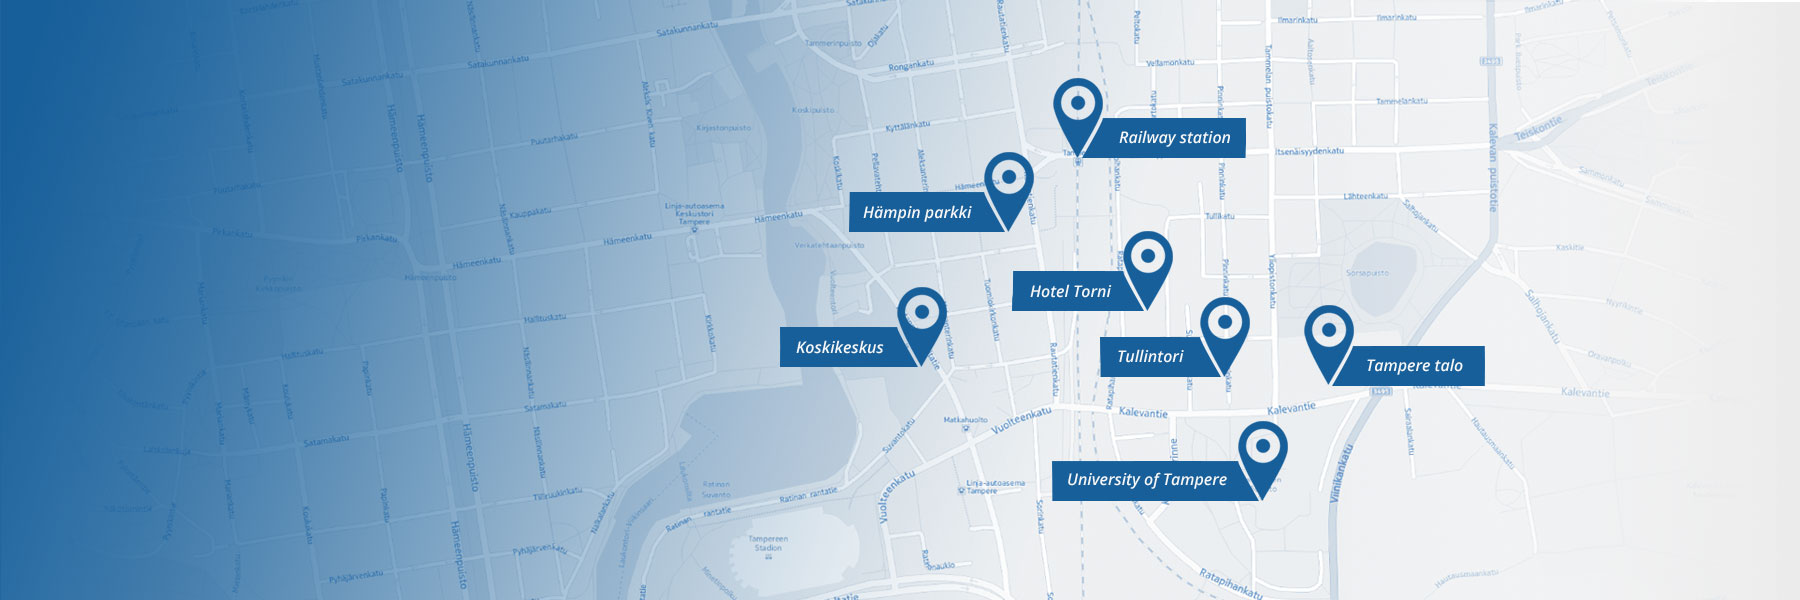
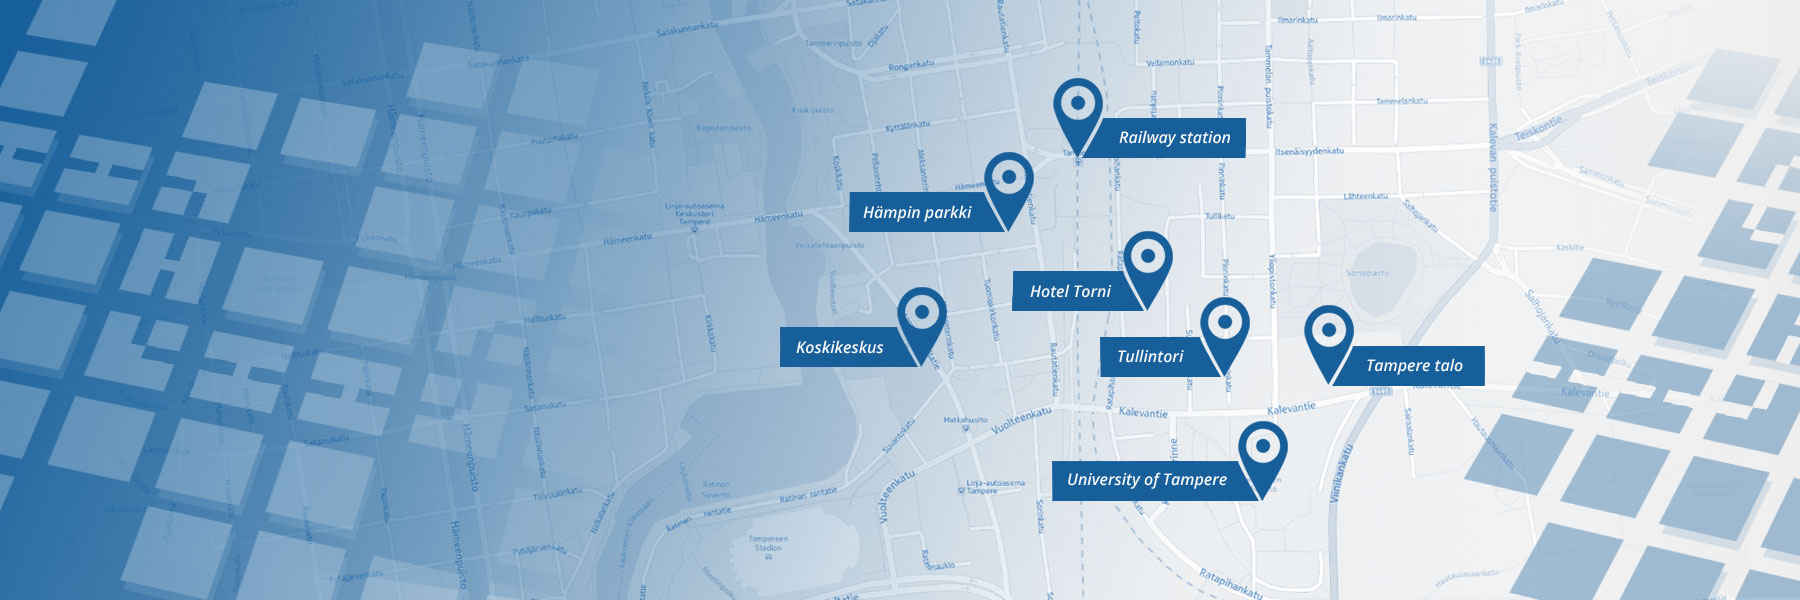
Change main photos add small to respo

diff --git a/wp-content/themes/citytrack/assets/css/style.min.css b/wp-content/themes/citytrack/assets/css/style.min.css
@@ -7590,6 +7590,9 @@ footer {
 *
 * Styles applied on partners page.
 */
+#partners .splash-block{
+    background-image: url(../img/main_photo3.jpg);
+}
 
 #partners .splash-block #img-map-white{
     top: -160px;
@@ -7711,8 +7714,10 @@ footer {
 */
 
 #users .splash-block{
+    background-image: url(../img/main_photo2.jpg);
     position: relative;
 }
+
 #users .splash-block #img-map-white{
     top: -160px;
     height: 500px;
@@ -7771,6 +7776,20 @@ footer {
 @media (max-width: 350px){
     #map {
         width: 238px;
+    }
+    #main .splash-block{
+        background-image: url(../img/main_photo_small.png);
+        background-position: center center !important;
+        height: 253px;
+
+    }
+    #users .splash-block{
+        background-image: url(../img/main_photo2_small.jpg);
+        height: 168px;
+    }
+    #partners .splash-block{
+        background-image: url(../img/main_photo3_small.jpg);
+        height: 168px;
     }
 }
 
@@ -7916,6 +7935,9 @@ footer {
     }
     #blog #posts .img-container img {
         margin: 0 auto;
+    }
+    #main .splash-block{
+        background-position-x: -700px;
     }
     #img-phone{
         display: none;

diff --git a/wp-content/themes/citytrack/assets/css/style.css b/wp-content/themes/citytrack/assets/css/style.css
@@ -697,6 +697,9 @@ footer {
 *
 * Styles applied on partners page.
 */
+#partners .splash-block{
+    background-image: url(../img/main_photo3.jpg);
+}
 
 #partners .splash-block #img-map-white{
     top: -160px;
@@ -818,8 +821,10 @@ footer {
 */
 
 #users .splash-block{
+    background-image: url(../img/main_photo2.jpg);
     position: relative;
 }
+
 #users .splash-block #img-map-white{
     top: -160px;
     height: 500px;
@@ -878,6 +883,20 @@ footer {
 @media (max-width: 350px){
     #map {
         width: 238px;
+    }
+    #main .splash-block{
+        background-image: url(../img/main_photo_small.png);
+        background-position: center center !important;
+        height: 253px;
+
+    }
+    #users .splash-block{
+        background-image: url(../img/main_photo2_small.jpg);
+        height: 168px;
+    }
+    #partners .splash-block{
+        background-image: url(../img/main_photo3_small.jpg);
+        height: 168px;
     }
 }
 
@@ -1025,6 +1044,9 @@ footer {
     }
     #blog #posts .img-container img {
         margin: 0 auto;
+    }
+    #main .splash-block{
+        background-position-x: -700px;
     }
     #img-phone{
         display: none;

diff --git a/wp-content/themes/citytrack/users.php b/wp-content/themes/citytrack/users.php
@@ -4,13 +4,13 @@
 
 get_header();
 
-$src = wp_get_attachment_image_src( get_post_thumbnail_id(4), 'thumbnail_size' );
-$splash_url = $src[0];
+/*$src = wp_get_attachment_image_src( get_post_thumbnail_id(4), 'thumbnail_size' );
+$splash_url = $src[0];*/
 
 ?>
 
 <div id="users">
-    <div class="splash-block" style="background-image: url(<?php echo $splash_url; ?>);">
+    <div class="splash-block">
         <!--img src="<?php echo get_template_directory_uri()?>/assets/img/citymap_white.png" id="img-map-white"-->
     </div>
 

diff --git a/wp-content/themes/citytrack/partners.php b/wp-content/themes/citytrack/partners.php
@@ -4,11 +4,9 @@
 
 get_header();
 
-$src = wp_get_attachment_image_src( get_post_thumbnail_id(11), 'thumbnail_size' );
-$splash_url = $src[0];
 ?>
 <div id="partners">
-    <div class="splash-block" style="background-image: url(<?php echo $splash_url; ?>);">
+    <div class="splash-block">
         <!--img src="<?php echo get_template_directory_uri()?>/assets/img/citymap_white.png" id="img-map-white"-->
     </div>
 
